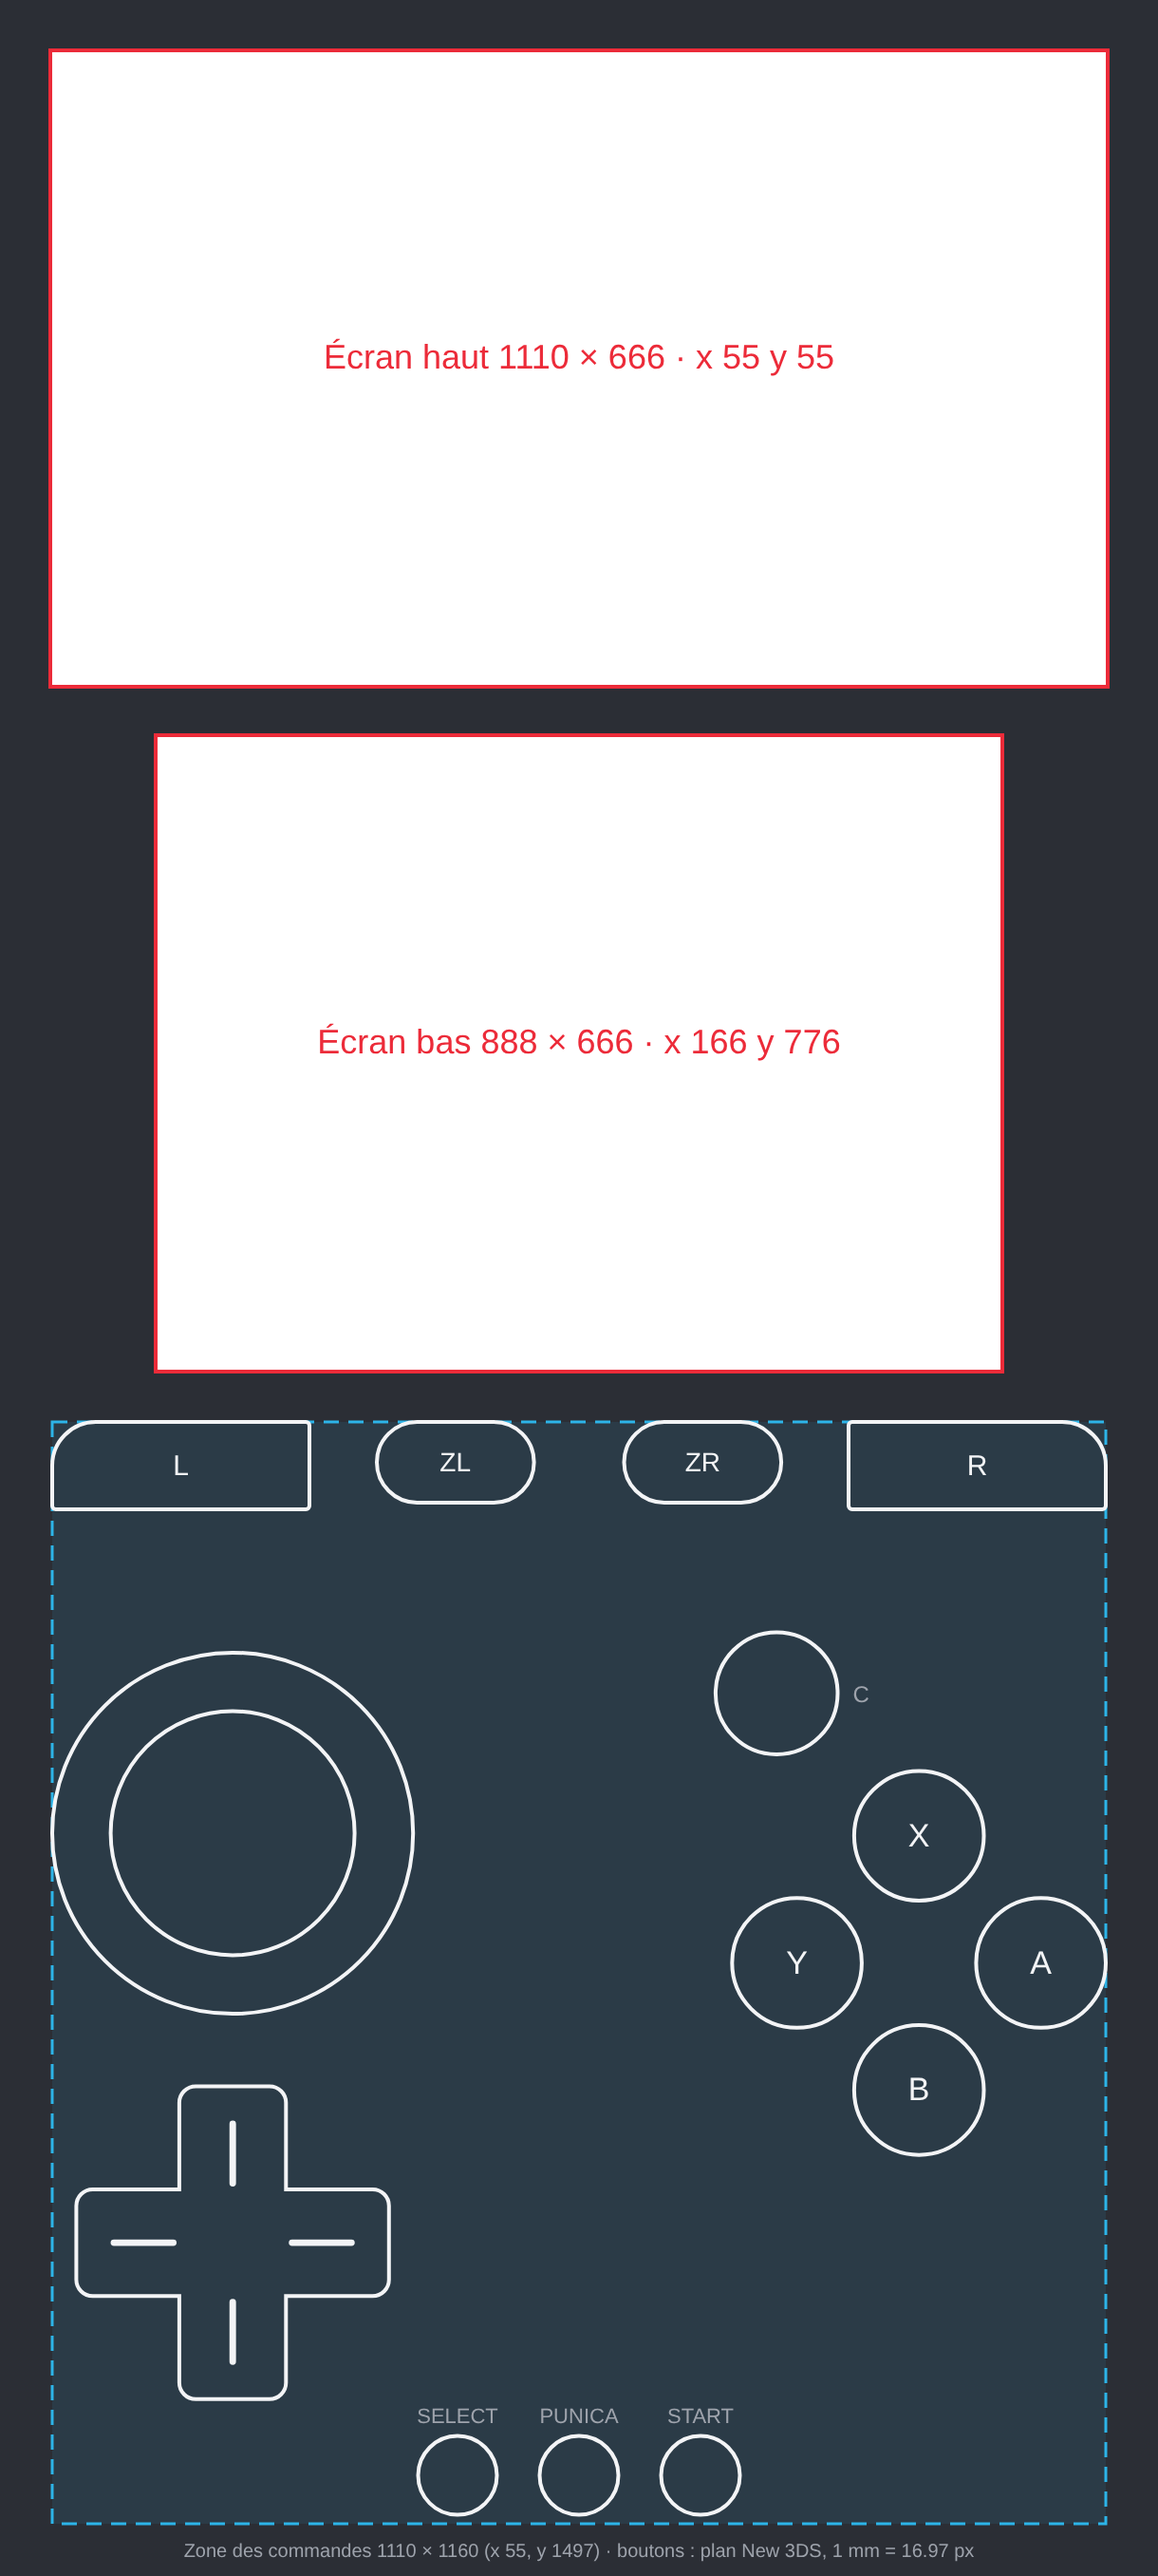
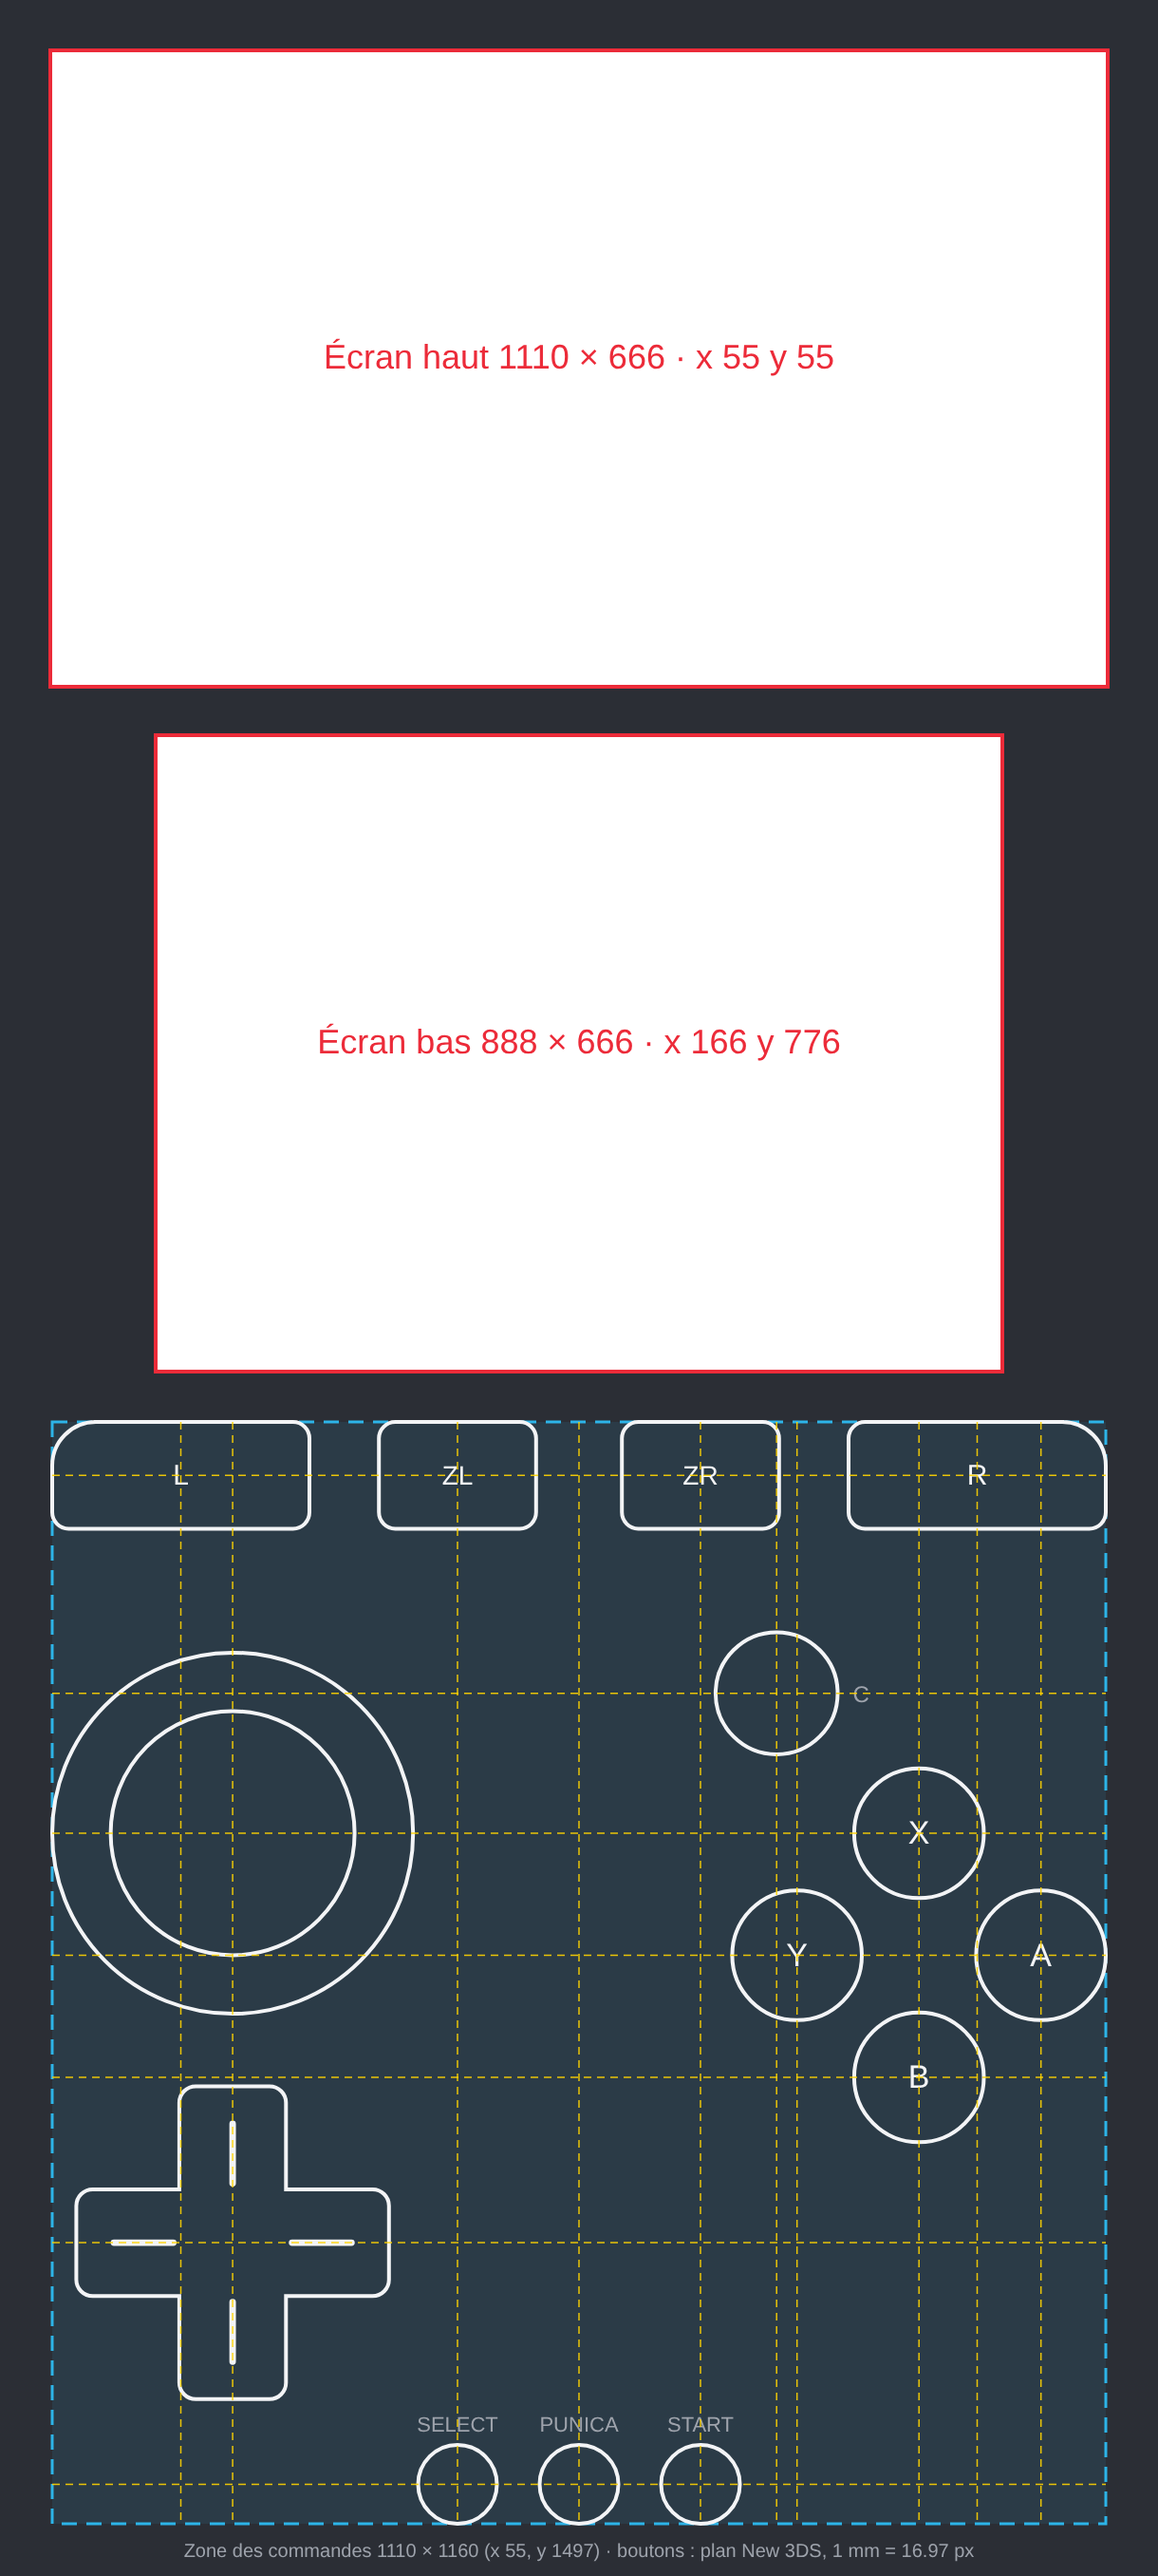
Classic 3DS layout: follow the owner's corrected skin template
L, R, ZL and ZR are 112.4 tall (were 92 / 84.9), ZL and ZR moved to
x 399.2 / 655.2, ABXY's centres to y 1930 / 2058.5 / 2187, and SELECT,
Punica and START to y 2615.5. Sticks and D-pad unchanged. Template SVG
replaced by the owner's file, PNG re-rendered from it (Chromium headless).
VERSION 5 so saved placements are redone.

Not compiled (no Android SDK in the container), untested on the phone.

Claude-Session: https://claude.ai/code/session_01WzNs2Kqqjid1UKW5QZqF5W

diff --git a/azahar/src/android/app/src/main/java/org/citra/citra_emu/overlay/ClassicOverlayLayout.kt b/azahar/src/android/app/src/main/java/org/citra/citra_emu/overlay/ClassicOverlayLayout.kt
@@ -24,8 +24,8 @@ import kotlin.math.min
  * pad and ABXY. HOME's place holds the Punica button, which opens the shortcut pill's fan (HOME among its entries).
  */
 object ClassicOverlayLayout {
-    /** Raised when the controls' rectangles, drawn sizes or shown controls change, so placements saved before are redone (4: ZL, ZR, C shown). */
-    const val VERSION = 4
+    /** Raised when the controls' rectangles, drawn sizes or shown controls change, so placements saved before are redone (4: ZL, ZR, C shown; 5: the corrected template). */
+    const val VERSION = 5
     private const val TEMPLATE_WIDTH = 1220f
     private const val TEMPLATE_HEIGHT = 2712f
 
@@ -33,22 +33,22 @@ object ClassicOverlayLayout {
 
     // Template rectangles, in template pixels. The D-pad is keyed by DPAD_UP, its preference key
     private val boxes = mapOf(
-        ButtonType.TRIGGER_L to Box(55f, 1497f, 271f, 92f),
-        ButtonType.TRIGGER_R to Box(894f, 1497f, 271f, 92f),
-        ButtonType.BUTTON_ZL to Box(397f, 1497f, 165.6f, 84.9f),
-        ButtonType.BUTTON_ZR to Box(657.5f, 1497f, 165.6f, 84.9f),
+        ButtonType.TRIGGER_L to Box(55f, 1497f, 271f, 112.4f),
+        ButtonType.TRIGGER_R to Box(894f, 1497f, 271f, 112.4f),
+        ButtonType.BUTTON_ZL to Box(399.2f, 1497f, 165.6f, 112.4f),
+        ButtonType.BUTTON_ZR to Box(655.2f, 1497f, 165.6f, 112.4f),
         ButtonType.STICK_LEFT to Box(55f, 1739.9f, 380.2f, 380.2f),
         ButtonType.STICK_C to Box(753.9f, 1718.4f, 128.6f, 128.6f),
         ButtonType.DPAD_UP to Box(80.5f, 2196.4f, 329.3f, 329.3f),
-        ButtonType.BUTTON_X to Box(899.9f, 1864.4f, 136.6f, 136.6f),
-        ButtonType.BUTTON_Y to Box(771.3f, 1998.2f, 136.6f, 136.6f),
-        ButtonType.BUTTON_A to Box(1028.4f, 1998.2f, 136.6f, 136.6f),
-        ButtonType.BUTTON_B to Box(899.9f, 2132.1f, 136.6f, 136.6f),
+        ButtonType.BUTTON_X to Box(899.9f, 1861.7f, 136.6f, 136.6f),
+        ButtonType.BUTTON_Y to Box(771.4f, 1990.2f, 136.6f, 136.6f),
+        ButtonType.BUTTON_A to Box(1028.4f, 1990.2f, 136.6f, 136.6f),
+        ButtonType.BUTTON_B to Box(899.9f, 2118.7f, 136.6f, 136.6f),
         // SELECT, Punica and START in one row centred on the screens' axis, 128 apart (owner's choice), as on the DS
-        ButtonType.BUTTON_START to Box(696.5f, 2564.6f, 83f, 83f),
-        ButtonType.BUTTON_SELECT to Box(440.5f, 2564.6f, 83f, 83f),
+        ButtonType.BUTTON_START to Box(696.5f, 2574f, 83f, 83f),
+        ButtonType.BUTTON_SELECT to Box(440.5f, 2574f, 83f, 83f),
         // HOME's place: the Punica button, the size of START / SELECT; HOME is in its fan (owner's choice)
-        ButtonType.BUTTON_PUNICA to Box(568.5f, 2564.6f, 83f, 83f),
+        ButtonType.BUTTON_PUNICA to Box(568.5f, 2574f, 83f, 83f),
         ButtonType.BUTTON_SWAP to Box(568.5f, 1700f, 83f, 83f),
         ButtonType.BUTTON_TURBO to Box(568.5f, 1823f, 83f, 83f),
         Hotkey.COMBO_BUTTON.button to Box(568.5f, 1946f, 83f, 83f),
